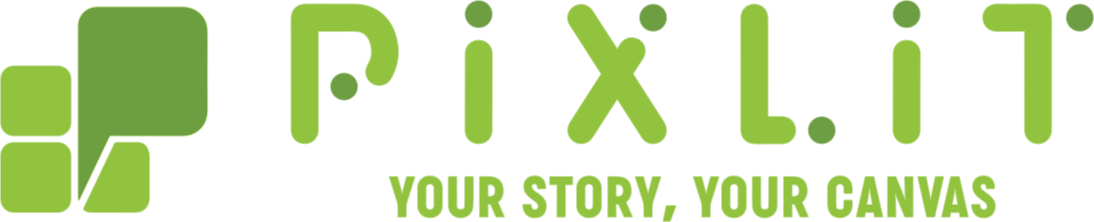
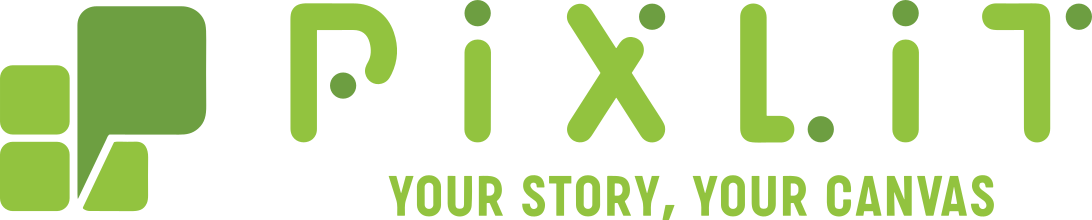
fixed header centering

diff --git a/client/src/App.css b/client/src/App.css
@@ -5,7 +5,7 @@
  * 1. Correct the line height in all browsers.
  * 2. Prevent adjustments of font size after orientation changes in iOS.
  */
- html {
+html {
   line-height: 1.15;
   /* 1 */
   -webkit-text-size-adjust: 100%;
@@ -187,9 +187,9 @@ select {
  * Correct the inability to style clickable types in iOS and Safari.
  */
 button,
-[type='button'],
-[type='reset'],
-[type='submit'] {
+[type="button"],
+[type="reset"],
+[type="submit"] {
   -webkit-appearance: button;
 }
 
@@ -197,9 +197,9 @@ button,
  * Remove the inner border and padding in Firefox.
  */
 button::-moz-focus-inner,
-[type='button']::-moz-focus-inner,
-[type='reset']::-moz-focus-inner,
-[type='submit']::-moz-focus-inner {
+[type="button"]::-moz-focus-inner,
+[type="reset"]::-moz-focus-inner,
+[type="submit"]::-moz-focus-inner {
   border-style: none;
   padding: 0;
 }
@@ -208,9 +208,9 @@ button::-moz-focus-inner,
  * Restore the focus styles unset by the previous rule.
  */
 button:-moz-focusring,
-[type='button']:-moz-focusring,
-[type='reset']:-moz-focusring,
-[type='submit']:-moz-focusring {
+[type="button"]:-moz-focusring,
+[type="reset"]:-moz-focusring,
+[type="submit"]:-moz-focusring {
   outline: 1px dotted ButtonText;
 }
 
@@ -260,8 +260,8 @@ textarea {
  * 1. Add the correct box sizing in IE 10.
  * 2. Remove the padding in IE 10.
  */
-[type='checkbox'],
-[type='radio'] {
+[type="checkbox"],
+[type="radio"] {
   box-sizing: border-box;
   /* 1 */
   padding: 0;
@@ -271,8 +271,8 @@ textarea {
 /**
  * Correct the cursor style of increment and decrement buttons in Chrome.
  */
-[type='number']::-webkit-inner-spin-button,
-[type='number']::-webkit-outer-spin-button {
+[type="number"]::-webkit-inner-spin-button,
+[type="number"]::-webkit-outer-spin-button {
   height: auto;
 }
 
@@ -280,7 +280,7 @@ textarea {
  * 1. Correct the odd appearance in Chrome and Safari.
  * 2. Correct the outline style in Safari.
  */
-[type='search'] {
+[type="search"] {
   -webkit-appearance: textfield;
   /* 1 */
   outline-offset: -2px;
@@ -290,7 +290,7 @@ textarea {
 /**
  * Remove the inner padding in Chrome and Safari on macOS.
  */
-[type='search']::-webkit-search-decoration {
+[type="search"]::-webkit-search-decoration {
   -webkit-appearance: none;
 }
 
@@ -356,9 +356,9 @@ body {
 body {
   margin: 0;
   padding: 0;
-  font-family: 'Open Sans', -apple-system, BlinkMacSystemFont, 'Segoe UI',
-    Roboto, Helvetica, Arial, sans-serif, 'Apple Color Emoji', 'Segoe UI Emoji',
-    'Segoe UI Symbol';
+  font-family: "Open Sans", -apple-system, BlinkMacSystemFont, "Segoe UI",
+    Roboto, Helvetica, Arial, sans-serif, "Apple Color Emoji", "Segoe UI Emoji",
+    "Segoe UI Symbol";
   font-size: 16px;
   color: #1a1a1a;
 }
@@ -369,7 +369,7 @@ h3,
 h4,
 h5,
 h6 {
-  font-family: 'JetBrains Mono', monospace;
+  font-family: "JetBrains Mono", monospace;
   margin: 0 0 0.5rem;
   line-height: 1.25;
 }
@@ -1157,13 +1157,13 @@ form .form-input.form-input-squared {
   border-radius: 0;
 }
 
-form [type='checkbox'],
-form [type='radio'] {
+form [type="checkbox"],
+form [type="radio"] {
   display: inline-block;
 }
 
-label form [type='checkbox'],
-label form [type='radio'] {
+label form [type="checkbox"],
+label form [type="radio"] {
   display: inline-block;
 }
 
@@ -1259,7 +1259,7 @@ label form [type='radio'] {
   margin-right: -15px;
 }
 
-[class*='col-'] {
+[class*="col-"] {
   position: relative;
   width: 100%;
   padding-right: 15px;
@@ -1705,4 +1705,23 @@ label form [type='radio'] {
   .align-content-center-xl {
     align-content: center;
   }
+}
+
+.app {
+  display: flex;
+  justify-content: space-between;
+}
+
+.main-content {
+  flex-grow: 1;
+}
+
+header {
+  display: flex;
+  justify-content: center;
+}
+
+.custom-header {
+  display: flex;
+  justify-content: center;
 }

diff --git a/client/src/App.jsx b/client/src/App.jsx
@@ -1,31 +1,33 @@
-import './App.css';
+import "./App.css";
 import {
   ApolloClient,
   InMemoryCache,
   ApolloProvider,
   createHttpLink,
-} from '@apollo/client';
-import { setContext } from '@apollo/client/link/context';
-import { Outlet } from 'react-router-dom';
+} from "@apollo/client";
+import { setContext } from "@apollo/client/link/context";
+import { Outlet } from "react-router-dom";
 
-import Header from './components/Header';
-import Footer from './components/Footer';
+import Header from "./components/Header";
+import Footer from "./components/Footer";
+import Sidebar from "./components/Sidebar/sidebar.jsx";
+
 // import LikeButton from './components/LikeButton';
 
 // Construct our main GraphQL API endpoint
 const httpLink = createHttpLink({
-  uri: '/graphql',
+  uri: "/graphql",
 });
 
 // Construct request middleware that will attach the JWT token to every request as an `authorization` header
 const authLink = setContext((_, { headers }) => {
   // get the authentication token from local storage if it exists
-  const token = localStorage.getItem('id_token');
+  const token = localStorage.getItem("id_token");
   // return the headers to the context so httpLink can read them
   return {
     headers: {
       ...headers,
-      authorization: token ? `Bearer ${token}` : '',
+      authorization: token ? `Bearer ${token}` : "",
     },
   };
 });
@@ -41,17 +43,13 @@ function App() {
     <ApolloProvider client={client}>
       <div className="flex-column justify-flex-start min-100-vh">
         <Header />
+        <Sidebar />
         <div className="container">
           <Outlet />
-         <div className>
-          
-
-         </div> 
+          <div className></div>
         </div>
         <Footer />
       </div>
-      
-      
     </ApolloProvider>
   );
 }

diff --git a/client/src/components/Header/index.jsx b/client/src/components/Header/index.jsx
@@ -10,18 +10,29 @@ const Header = () => {
     Auth.logout();
   };
   return (
-    <header className="bg-primary text-light mb-4 py-3 flex-row align-center">
+    <header
+      className="bg-primary text-light mb-4 py-3 flex-row align-center custom-header"
+      style={{ display: "flex", justifyContent: "center" }}
+    >
+      {" "}
       <div className="container flex-row justify-space-between-lg justify-center align-center">
-        <div>
+        <div
+          style={{
+            display: "flex",
+            justifyContent: "center",
+            alignItems: "center",
+            width: "100%",
+          }}
+        >
           <Link className="text-light" to="/">
             <img
               src={banner}
               alt="PixLit"
-              style={{ width: "500px", height: "170px" }}
+              style={{ width: "500px", height: "100px" }}
             />
           </Link>
         </div>
-        <div>
+        {/* <div>
           {Auth.loggedIn() ? (
             <>
               <Link className="btn btn-lg btn-info m-2" to="/me">
@@ -41,7 +52,7 @@ const Header = () => {
               </Link>
             </>
           )}
-        </div>
+        </div> */}
       </div>
     </header>
   );

diff --git a/client/index.html b/client/index.html
@@ -2,9 +2,9 @@
 <html lang="en">
   <head>
     <meta charset="UTF-8" />
-    <link rel="icon" type="image/svg+xml" href="/vite.svg" />
+    <link rel="icon" type="image/svg+xml" href="/public/pixlit-logo.svg" />
     <meta name="viewport" content="width=device-width, initial-scale=1.0" />
-    <title>Resolver Context</title>
+    <title>PixLit - Your Story, Your Canvas</title>
   </head>
   <body>
     <div id="root"></div>
